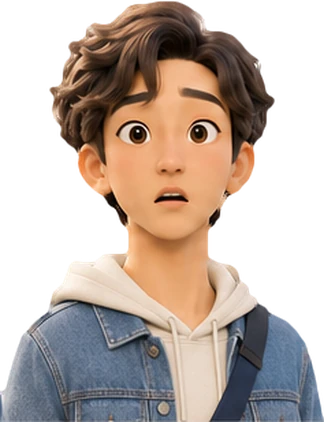
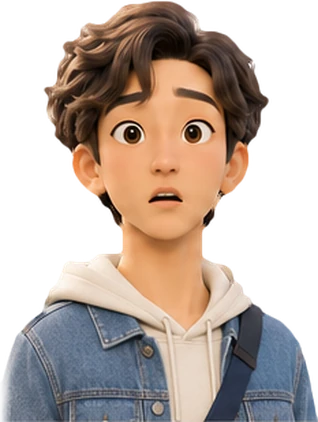
자동 재생 대기를 단계 설명 길이에 맞춤, 영상 2편 남학생 왼쪽 아래 흰 조각 제거
- 자동 재생: 모든 단계 3.5초 고정 → 1.5초 + 설명 글자 수 × 언어별 글자당 시간(한 0.03, 중 0.04, 영·베 0.015초), 2~4.5초
  - 네 언어 평균 약 2.6초, 페트병 5단계가 약 19.5초에 마지막 단계 도착
- 영상 2편 남학생: 시트 옆 칸(걱정 표정) 어깨가 몇 px 섞여 왼쪽 아래에 흰 조각이 보이던 것을 자르는 위치를 옮겨 없애고 잘린 끝은 흐리게
- eco3d.js 버전 표시 20261114e, video-ep2 그림 20261114f

diff --git a/js/eco3d.js b/js/eco3d.js
@@ -59,10 +59,18 @@ function initLab(lab) {
     if (n === last) document.dispatchEvent(new CustomEvent("eco:lab-done", { detail: lab.dataset.ecoLab }));
   }
 
-  // 자동 진행: 창을 열면 1단계부터 저절로 넘어감. 각 단계의 움직임이 끝난 뒤 DWELL만큼 읽을 시간을 줌.
+  // 자동 진행: 창을 열면 1단계부터 저절로 넘어감. 각 단계의 움직임이 끝난 뒤 그 단계 설명을 읽을 시간만큼 기다림.
   // 단계 버튼·다음 단계를 누르면 멈추고 사용자에게 맡김. 마지막 단계에서 멈춤.
   // 움직임 줄이기 설정이면 자동 진행 없이 지금처럼 직접 누르는 방식만 씀.
-  const DWELL = 3500;
+  // 읽을 시간 = 1.5초 + 설명 글자 수 × 언어별 글자당 시간, 2~4.5초 사이 (예전엔 모든 단계 3.5초 고정)
+  //   같은 내용이라도 영어·베트남어는 글자가 2배쯤 많아 글자당 시간을 절반으로 둠 → 네 언어 평균 약 2.6초
+  const PER_CHAR = { ko: 30, zh: 40, en: 15, vi: 15 };
+  function dwell(n) {
+    const btn = lab.querySelector('[data-step="' + n + '"]');
+    const lang = (document.documentElement.lang || "ko").slice(0, 2);
+    const len = btn ? btn.textContent.replace(/\s+/g, " ").trim().length : 0;
+    return Math.min(4500, Math.max(2000, 1500 + len * (PER_CHAR[lang] || 30)));
+  }
   const auto = lab.querySelector("[data-eco-auto]");
   const dialog = lab.closest("dialog");
   let run = 0; // 진행 회차. 멈추거나 새로 시작하면 올라가서 이전 회차의 대기를 무효로 만듦
@@ -79,7 +87,7 @@ function initLab(lab) {
     while (id === run && !view && !stage.classList.contains("is-fallback")) await wait(100);
     while (id === run && step < last) {
       while (id === run && view && view.busy()) await wait(100);
-      const need = step === 0 ? 1200 : DWELL;
+      const need = step === 0 ? 1200 : dwell(step);
       for (let t = 0; id === run && t < need; t += 100) await wait(100);
       if (id !== run) return;
       setStep(step + 1);

diff --git a/index.html b/index.html
@@ -140,7 +140,7 @@
         </article>
         <article class="video-card ep-2">
           <div class="video-frame" data-video-index="1">
-            <img class="video-char" src="img/video-ep2.webp?v=20261114e" alt="" width="324" height="422" loading="lazy">
+            <img class="video-char" src="img/video-ep2.webp?v=20261114f" alt="" width="318" height="422" loading="lazy">
             <span class="video-ep" data-i18n="video.ep2.label">2편 · 실전편</span>
             <div class="video-placeholder">
               <span class="video-soon" data-i18n="video.placeholder">영상 준비 중</span>
@@ -599,6 +599,6 @@
 <script src="js/config.js?v=20261108t"></script>
 <script src="js/i18n.js?v=20261114p"></script>
 <script src="js/main.js?v=20261114n"></script>
-<script type="module" src="js/eco3d.js?v=20261114d"></script>
+<script type="module" src="js/eco3d.js?v=20261114e"></script>
 </body>
 </html>
